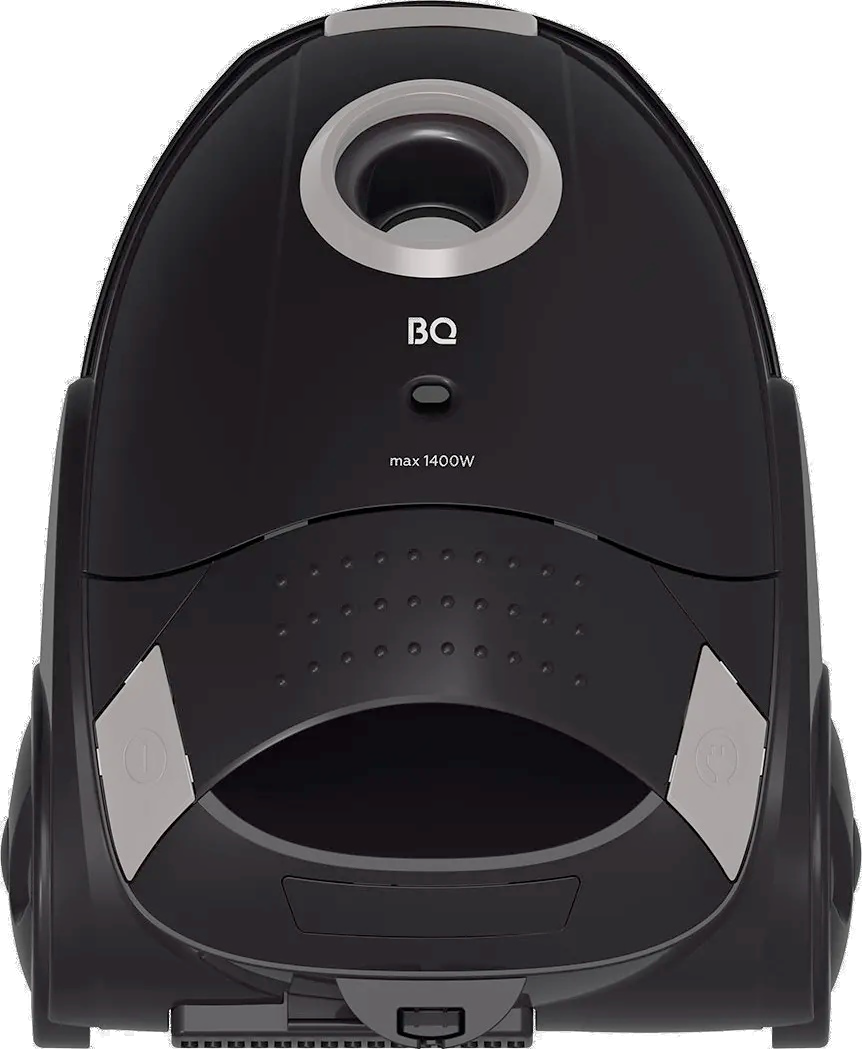
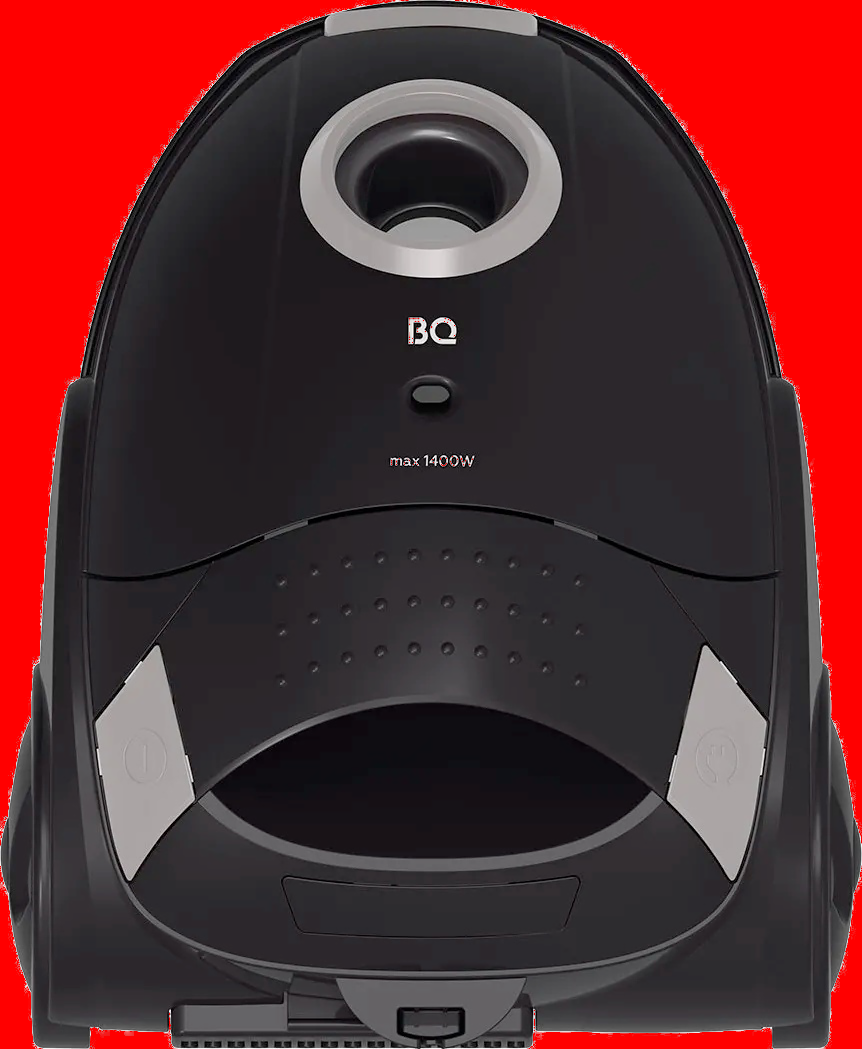
add rembg

diff --git a/MyCutouts/CV2/Main.py b/MyCutouts/CV2/Main.py
@@ -1,0 +1,66 @@
+import cv2
+import numpy as np
+import datetime
+
+
+def show(img, gray, mask, result):
+    cv2.imshow("INPUT", img)
+    cv2.imshow("GRAY", gray)
+    cv2.imshow("MASK", mask)
+    cv2.imshow("RESULT", result)
+    cv2.waitKey(0)
+    cv2.destroyAllWindows()
+
+
+count = 100
+m = {'1': [], '2': [], '3': [], '4': [], '5': []}
+
+for j in range(count):
+    print(j)
+    for i in range(1, 6):
+        filename = str(i)
+        before = datetime.datetime.now()
+        # load image
+        img = cv2.imread("examples/" + filename + ".jpg")
+
+        # convert to gray
+        gray = cv2.cvtColor(img, cv2.COLOR_BGR2GRAY)
+
+        # threshold input image as mask
+        mask = cv2.threshold(gray, 250, 255, cv2.THRESH_BINARY)[1]
+
+        # negate mask
+        mask = 255 - mask
+
+        # apply morphology to remove isolated extraneous noise
+        # use borderconstant of black since foreground touches the edges
+        kernel = np.ones((3, 3), np.uint8)
+        mask = cv2.morphologyEx(mask, cv2.MORPH_OPEN, kernel)
+        mask = cv2.morphologyEx(mask, cv2.MORPH_CLOSE, kernel)
+
+        # anti-alias the mask -- blur then stretch
+        # blur alpha channel
+        mask = cv2.GaussianBlur(mask, (0, 0), sigmaX=2, sigmaY=2, borderType=cv2.BORDER_DEFAULT)
+
+        # linear stretch so that 127.5 goes to 0, but 255 stays 255
+        mask = (2 * (mask.astype(np.float32)) - 255.0).clip(0, 255).astype(np.uint8)
+
+        # put mask into alpha channel
+        result = img.copy()
+        result = cv2.cvtColor(result, cv2.COLOR_BGR2BGRA)
+        result[:, :, 3] = mask
+
+        # save resulting masked image
+        cv2.imwrite("cutouts/cutout_" + filename + ".png", result)
+
+        after = datetime.datetime.now()
+        m[filename].append(after - before)
+
+        # display result, though it won't show transparency
+        # show(img, gray, mask, result)
+
+for k in m.keys():
+    avg = 0
+    for v in m[k]:
+        avg = avg + v.seconds + v.microseconds * 10e-7
+    print(avg / count)

diff --git a/MyCutouts/PyMatting + MyTrimap/Main.py b/MyCutouts/PyMatting + MyTrimap/Main.py
@@ -1,0 +1,28 @@
+from pymatting import cutout
+import datetime
+
+count = 1
+m = {'1': [], '2': [], '3': [], '4': [], '5': []}
+
+for j in range(count):
+    print(j)
+    for i in range(1, 6):
+        filename = str(i)
+        # print("processing : " + filename + ".jpg")
+        before = datetime.datetime.now()
+        cutout(
+            # input image path
+            "examples/" + filename + ".jpg",
+            # input trimap path
+            "trimaps/trimap_" + filename + ".png",
+            # output cutout path
+            "cutouts/cutout_" + filename + ".png")
+        after = datetime.datetime.now()
+        m[filename].append(after - before)
+        # print(str((after - before).seconds) + " s. " + str((after - before).microseconds))
+
+for k in m.keys():
+    avg = 0
+    for v in m[k]:
+        avg = avg + v.seconds + v.microseconds * 10e-7
+    print(avg / count)

diff --git a/MyCutouts/Rembg/Main.py b/MyCutouts/Rembg/Main.py
@@ -1,0 +1,28 @@
+from rembg.bg import remove
+import numpy as np
+import io
+from PIL import ImageFile, Image
+import datetime
+
+ImageFile.LOAD_TRUNCATED_IMAGES = True
+
+count = 20
+m = {'1': [], '2': [], '3': [], '4': [], '5': []}
+
+for j in range(count):
+    print(j)
+    for i in range(1, 6):
+        filename = str(i)
+        before = datetime.datetime.now()
+        f = np.fromfile("examples/" + filename + ".jpg")
+        result = remove(f)
+        img = Image.open(io.BytesIO(result)).convert("RGBA")
+        img.save("cutouts/cutout_" + filename + ".png")
+        after = datetime.datetime.now()
+        m[filename].append(after - before)
+
+for k in m.keys():
+    avg = 0
+    for v in m[k]:
+        avg = avg + v.seconds + v.microseconds * 10e-7
+    print(avg / count)

diff --git a/MyCutouts/AddRedBg.py b/MyCutouts/AddRedBg.py
@@ -1,0 +1,11 @@
+from PIL import Image, ImageDraw
+
+for i in range(1, 6):
+    filename = str(i)
+    image = Image.open("cutouts/cutout_" + filename + ".png")
+    draw = ImageDraw.Draw(image)
+    width = image.size[0]
+    height = image.size[1]
+    text_img = Image.new('RGBA', (width, height), (255, 0, 0, 255))
+    text_img.paste(image, (0, 0), mask=image)
+    text_img.save("cutouts/cutout_" + filename + ".png", format="png")

diff --git a/MyCutouts/Rembg/readme.md b/MyCutouts/Rembg/readme.md
@@ -1,0 +1,9 @@
+## Результаты работы
+
+Исходное изображение | Trimap | Результат 
+--- | --- | ---
+![plot](https://github.com/EgorBa/Video-creative-platform/blob/master/MyCutouts/PyMatting%20%2B%20MyTrimap/examples/1.jpg) | ![plot](https://github.com/EgorBa/Video-creative-platform/blob/master/MyCutouts/PyMatting%20%2B%20MyTrimap/trimaps/trimap_1.png) | ![plot](https://github.com/EgorBa/Video-creative-platform/blob/master/MyCutouts/PyMatting%20%2B%20MyTrimap/cutouts/cutout_1.png) 
+![plot](https://github.com/EgorBa/Video-creative-platform/blob/master/MyCutouts/PyMatting%20%2B%20MyTrimap/examples/2.jpg) | ![plot](https://github.com/EgorBa/Video-creative-platform/blob/master/MyCutouts/PyMatting%20%2B%20MyTrimap/trimaps/trimap_2.png) | ![plot](https://github.com/EgorBa/Video-creative-platform/blob/master/MyCutouts/PyMatting%20%2B%20MyTrimap/cutouts/cutout_2.png) 
+![plot](https://github.com/EgorBa/Video-creative-platform/blob/master/MyCutouts/PyMatting%20%2B%20MyTrimap/examples/3.jpg) | ![plot](https://github.com/EgorBa/Video-creative-platform/blob/master/MyCutouts/PyMatting%20%2B%20MyTrimap/trimaps/trimap_3.png) | ![plot](https://github.com/EgorBa/Video-creative-platform/blob/master/MyCutouts/PyMatting%20%2B%20MyTrimap/cutouts/cutout_3.png) 
+![plot](https://github.com/EgorBa/Video-creative-platform/blob/master/MyCutouts/PyMatting%20%2B%20MyTrimap/examples/4.jpg) | ![plot](https://github.com/EgorBa/Video-creative-platform/blob/master/MyCutouts/PyMatting%20%2B%20MyTrimap/trimaps/trimap_4.png) | ![plot](https://github.com/EgorBa/Video-creative-platform/blob/master/MyCutouts/PyMatting%20%2B%20MyTrimap/cutouts/cutout_4.png) 
+![plot](https://github.com/EgorBa/Video-creative-platform/blob/master/MyCutouts/PyMatting%20%2B%20MyTrimap/examples/5.jpg) | ![plot](https://github.com/EgorBa/Video-creative-platform/blob/master/MyCutouts/PyMatting%20%2B%20MyTrimap/trimaps/trimap_5.png) | ![plot](https://github.com/EgorBa/Video-creative-platform/blob/master/MyCutouts/PyMatting%20%2B%20MyTrimap/cutouts/cutout_5.png) 
